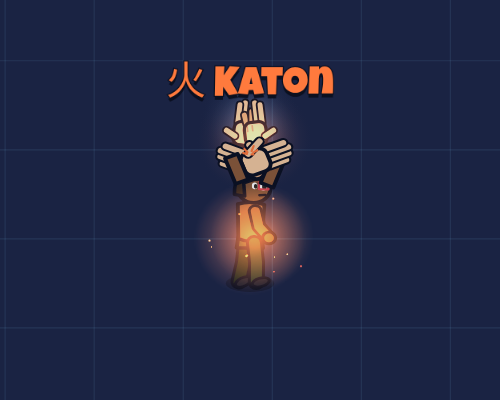
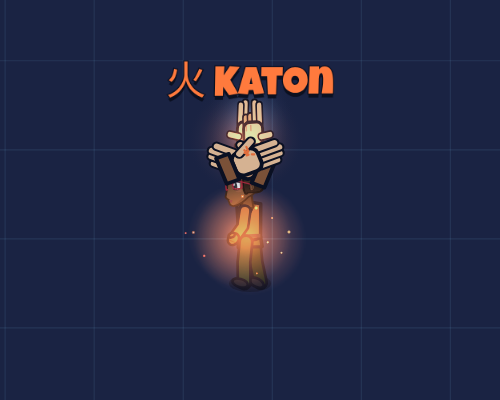
v0.10.14 Sceaux Tigre, Dragon, Serpent lisibles

Changed region(s): [[0.39, 0.24, 0.6, 0.72]]

diff --git a/index.html b/index.html
@@ -104,7 +104,7 @@ button.b.p{background:var(--gold);color:var(--ink)}button.b.p2{background:var(--
 <script>
 'use strict';
 /* ============ Noyau : réglages, sauvegarde, entrées, audio ============ */
-const VERSION = '0.10.13';
+const VERSION = '0.10.14';
 const K10 = Math.sqrt(10); // v0.9.7 : échelle des cartes extérieures (surface ×10)
 const $ = (s) => document.querySelector(s);
 const TAU = Math.PI * 2, clamp = (v, a, b) => (v < a ? a : v > b ? b : v), lerp = (a, b, t) => a + (b - a) * t;
@@ -3945,10 +3945,10 @@ addEventListener('touchstart',()=>document.body.classList.add('touch07'),{passiv
   const SEAL = {
     ne: [[-3, 3, 0.15, [C, C, C, C, C]], [3, -2, -0.1, [C, E, E, C, C]]],                       // Rat : index+majeur droits saisis dans le poing gauche
     ushi: [[-4, 0, -1.35, [E, E, E, E, E], 1], [5, 3, 0.2, [C, E, E, C, C]]],                    // Bœuf : main gauche à plat en travers, deux doigts droits levés
-    tora: [[-4, 0, 0.12, [I, E, E, I, I]], [4, 0, -0.12, [I, E, E, I, I]]],                     // Tigre : index+majeurs joints vers le haut
+    tora: [[-2.4, 0, 0.04, [C, E, E, C, C]], [2.4, 0, -0.04, [C, E, E, C, C]]],                     // Tigre : index+majeurs joints vers le haut
     u: [[-5, 2, -0.2, [E, E, E, E, E]], [5, 0, 0.6, [C, C, C, C, C], 1]],                        // Lièvre
-    tatsu: [[-4, 0, 0.1, [E, I, I, I, E]], [4, 0, -0.1, [E, I, I, I, E]]],                      // Dragon : pouces dressés, doigts entrelacés
-    mi: [[-4, 0, 0.12, [I, I, I, I, I]], [4, 0, -0.12, [I, I, I, I, I]]],                       // Serpent : mains jointes, doigts entrelacés
+    tatsu: [[-5.5, 0, 0.42, [E, C, C, C, E]], [5.5, 0, -0.42, [E, C, C, C, E]]],                      // Dragon : pouces dressés, doigts entrelacés
+    mi: [[-1.5, 2, 0.95, [I, C, C, C, C]], [1.5, 0, -0.95, [I, C, C, C, C], 1]],                       // Serpent : mains jointes, doigts entrelacés
     uma: [[-4, 0, 0.32, [E, E, I, I, I]], [4, 0, -0.32, [E, E, I, I, I]]],                      // Cheval : triangle index/pouces
     hitsuji: [[-3, 2, 0.05, [C, E, E, C, C]], [4, 0, -0.3, [C, C, C, C, C], 1]],                 // Bélier : index+majeur gauches levés, poing droit autour
     saru: [[-4, 0, 1.2, [E, E, E, E, E]], [4, 2, -1.2, [E, E, E, E, E], 1]],                     // Singe : paumes face à face, doigts croisés à l'horizontale

diff --git a/src/8z1_seals10.js b/src/8z1_seals10.js
@@ -19,10 +19,10 @@
   const SEAL = {
     ne: [[-3, 3, 0.15, [C, C, C, C, C]], [3, -2, -0.1, [C, E, E, C, C]]],                       // Rat : index+majeur droits saisis dans le poing gauche
     ushi: [[-4, 0, -1.35, [E, E, E, E, E], 1], [5, 3, 0.2, [C, E, E, C, C]]],                    // Bœuf : main gauche à plat en travers, deux doigts droits levés
-    tora: [[-4, 0, 0.12, [I, E, E, I, I]], [4, 0, -0.12, [I, E, E, I, I]]],                     // Tigre : index+majeurs joints vers le haut
+    tora: [[-2.4, 0, 0.04, [C, E, E, C, C]], [2.4, 0, -0.04, [C, E, E, C, C]]],                     // Tigre : index+majeurs joints vers le haut
     u: [[-5, 2, -0.2, [E, E, E, E, E]], [5, 0, 0.6, [C, C, C, C, C], 1]],                        // Lièvre
-    tatsu: [[-4, 0, 0.1, [E, I, I, I, E]], [4, 0, -0.1, [E, I, I, I, E]]],                      // Dragon : pouces dressés, doigts entrelacés
-    mi: [[-4, 0, 0.12, [I, I, I, I, I]], [4, 0, -0.12, [I, I, I, I, I]]],                       // Serpent : mains jointes, doigts entrelacés
+    tatsu: [[-5.5, 0, 0.42, [E, C, C, C, E]], [5.5, 0, -0.42, [E, C, C, C, E]]],                      // Dragon : pouces dressés, doigts entrelacés
+    mi: [[-1.5, 2, 0.95, [I, C, C, C, C]], [1.5, 0, -0.95, [I, C, C, C, C], 1]],                       // Serpent : mains jointes, doigts entrelacés
     uma: [[-4, 0, 0.32, [E, E, I, I, I]], [4, 0, -0.32, [E, E, I, I, I]]],                      // Cheval : triangle index/pouces
     hitsuji: [[-3, 2, 0.05, [C, E, E, C, C]], [4, 0, -0.3, [C, C, C, C, C], 1]],                 // Bélier : index+majeur gauches levés, poing droit autour
     saru: [[-4, 0, 1.2, [E, E, E, E, E]], [4, 2, -1.2, [E, E, E, E, E], 1]],                     // Singe : paumes face à face, doigts croisés à l'horizontale

diff --git a/src/10_core.js b/src/10_core.js
@@ -1,6 +1,6 @@
 'use strict';
 /* ============ Noyau : réglages, sauvegarde, entrées, audio ============ */
-const VERSION = '0.10.13';
+const VERSION = '0.10.14';
 const K10 = Math.sqrt(10); // v0.9.7 : échelle des cartes extérieures (surface ×10)
 const $ = (s) => document.querySelector(s);
 const TAU = Math.PI * 2, clamp = (v, a, b) => (v < a ? a : v > b ? b : v), lerp = (a, b, t) => a + (b - a) * t;

diff --git a/PATCH_NOTES.md b/PATCH_NOTES.md
@@ -1,3 +1,8 @@
+## v0.10.14 — Sceaux Tigre, Dragon, Serpent lisibles
+- Tigre : index+majeurs joints en une seule pointe.
+- Dragon : mains en V, pouces et auriculaires tendus.
+- Serpent : mains jointes en diagonale, poings entrelacés.
+
 ## v0.10.13 — Coiffures PNJ et géants orientés
 - 7 coiffures génériques distinctes pour les PNJ (pointue, ébouriffée, plaquée, queue, ananas, carré, chignons) au lieu de clones des héros.
 - Susanoo et bête géante suivent les 8 directions (compression de profil, dos estompé).
